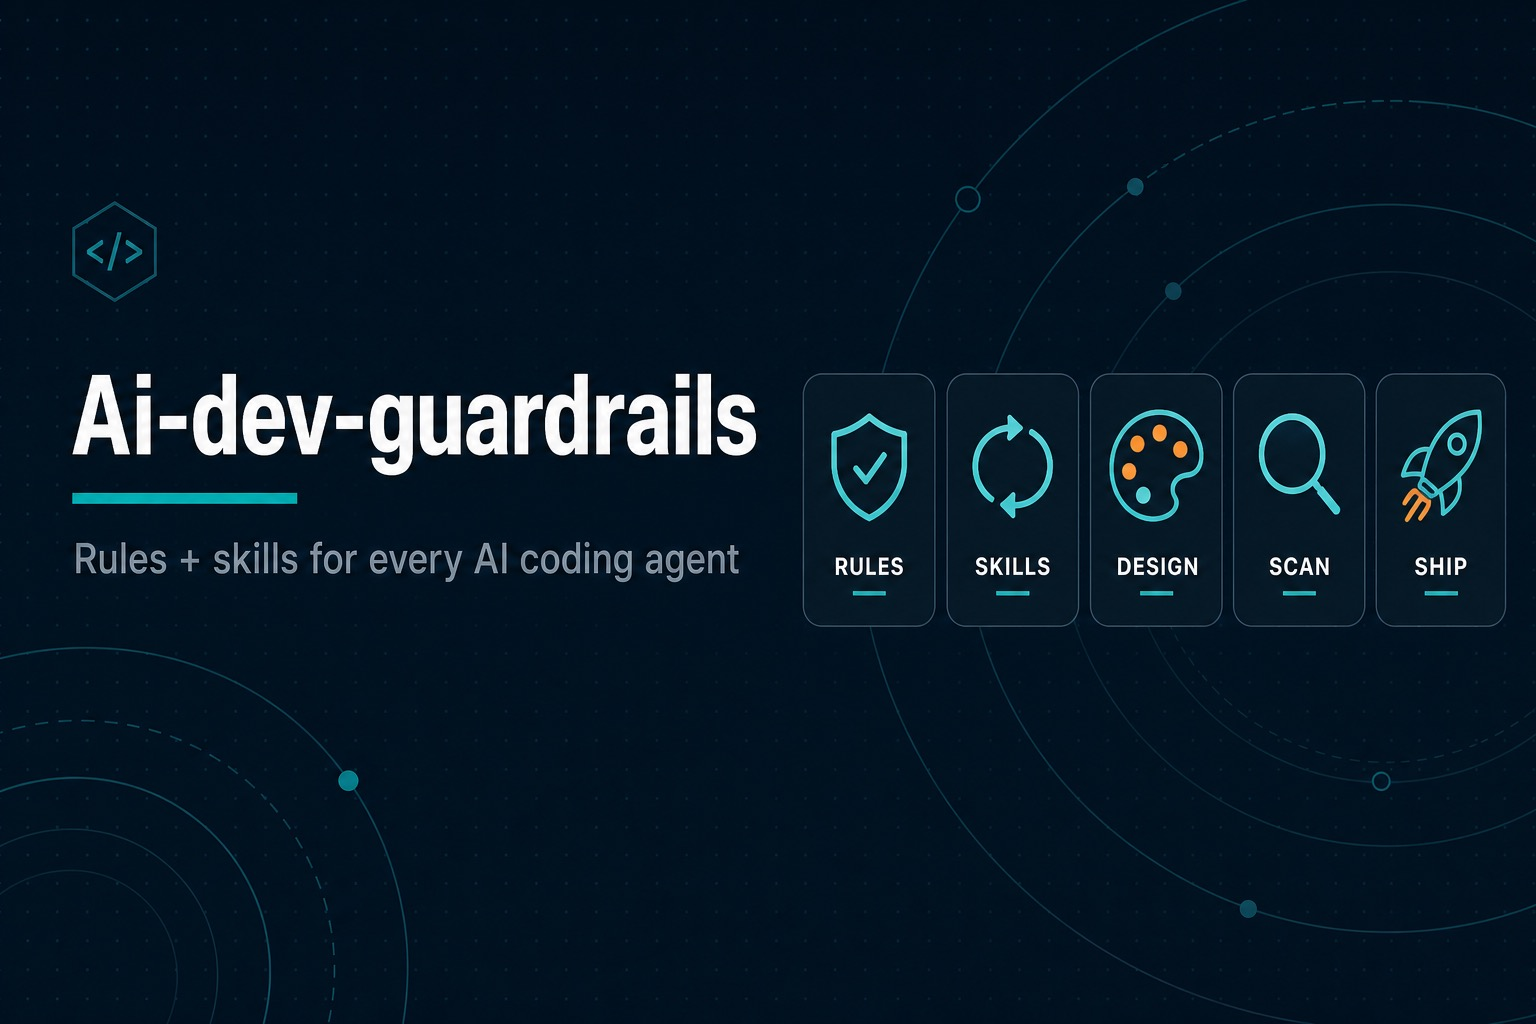
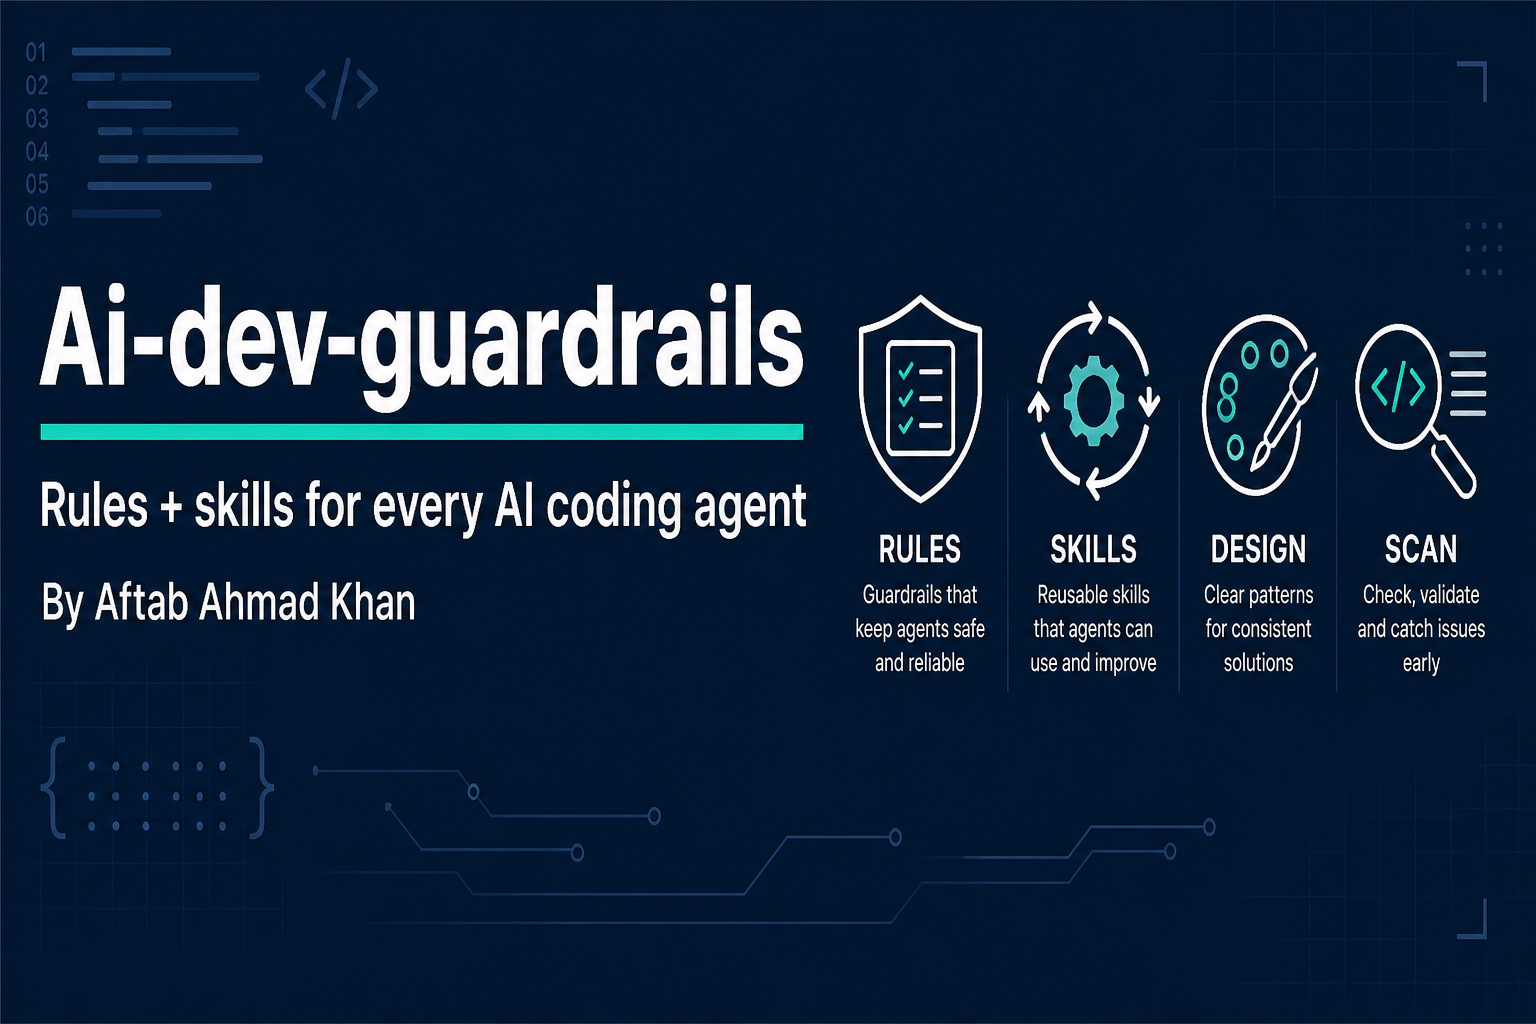
Add author info, package.json, and metadata
Add author attribution and package metadata across the repo. Files updated: INSTALL.md, README.md, design/README.md (added “By Aftab Ahmad Khan” and Author section), added package.json with project metadata, updated plugin.json (author + homepage), and refreshed banner.jpg and design/banner.jpg binaries. These changes provide proper attribution and package info for tooling/consumers while keeping existing version (2.6.0) intact.

diff --git a/README.md b/README.md
@@ -6,7 +6,8 @@ Reusable **rules** and **skills** for **Cursor**, **Claude**, **Copilot**, **Cod
 Keep code clean, modular, secure, and consistent — without forcing rules that do not apply to your project.
 
 **Repository:** https://github.com/aftab-ahmad-khan-dev/ai-dev-guardrails  
-**Version:** 2.6.0
+**Version:** 2.6.0  
+**By Aftab Ahmad Khan**
 
 ---
 
@@ -357,6 +358,10 @@ rules:
 Each category folder README includes a thematic `banner.jpg` for GitHub browsing (root + `client` / `server` / `security` / `devops` + `skills` / `design` / `agents` / `references` / `commands` / `hooks` / `docs`).
 
 ---
+
+## Author
+
+**By Aftab Ahmad Khan** · [GitHub](https://github.com/aftab-ahmad-khan-dev)
 
 ## License
 

diff --git a/design/README.md b/design/README.md
@@ -2,6 +2,8 @@
 
 ![Design — anti-slop UI, steer vocabulary, motion craft](banner.jpg)
 
+**By Aftab Ahmad Khan**
+
 Production design skills for AI coding agents — taste, steer vocabulary, visual styles, motion craft, and workflows.
 
 Inspired by [Taste Skill](https://www.tasteskill.dev/), [Impeccable](https://impeccable.style/), and [Emil Kowalski’s skills](https://emilkowal.ski/skill). Original writing for this pack. See [`SAFETY.md`](SAFETY.md) before install.

diff --git a/INSTALL.md b/INSTALL.md
@@ -3,7 +3,8 @@
 Install **ai-dev-guardrails** as Agent Skills in Cursor, Claude Code, Codex, Gemini CLI, Copilot, OpenCode, Windsurf, and any tool that supports `SKILL.md`.
 
 **Version:** 2.6.0  
-**Repo:** https://github.com/aftab-ahmad-khan-dev/ai-dev-guardrails
+**Repo:** https://github.com/aftab-ahmad-khan-dev/ai-dev-guardrails  
+**By Aftab Ahmad Khan**
 
 ---
 
